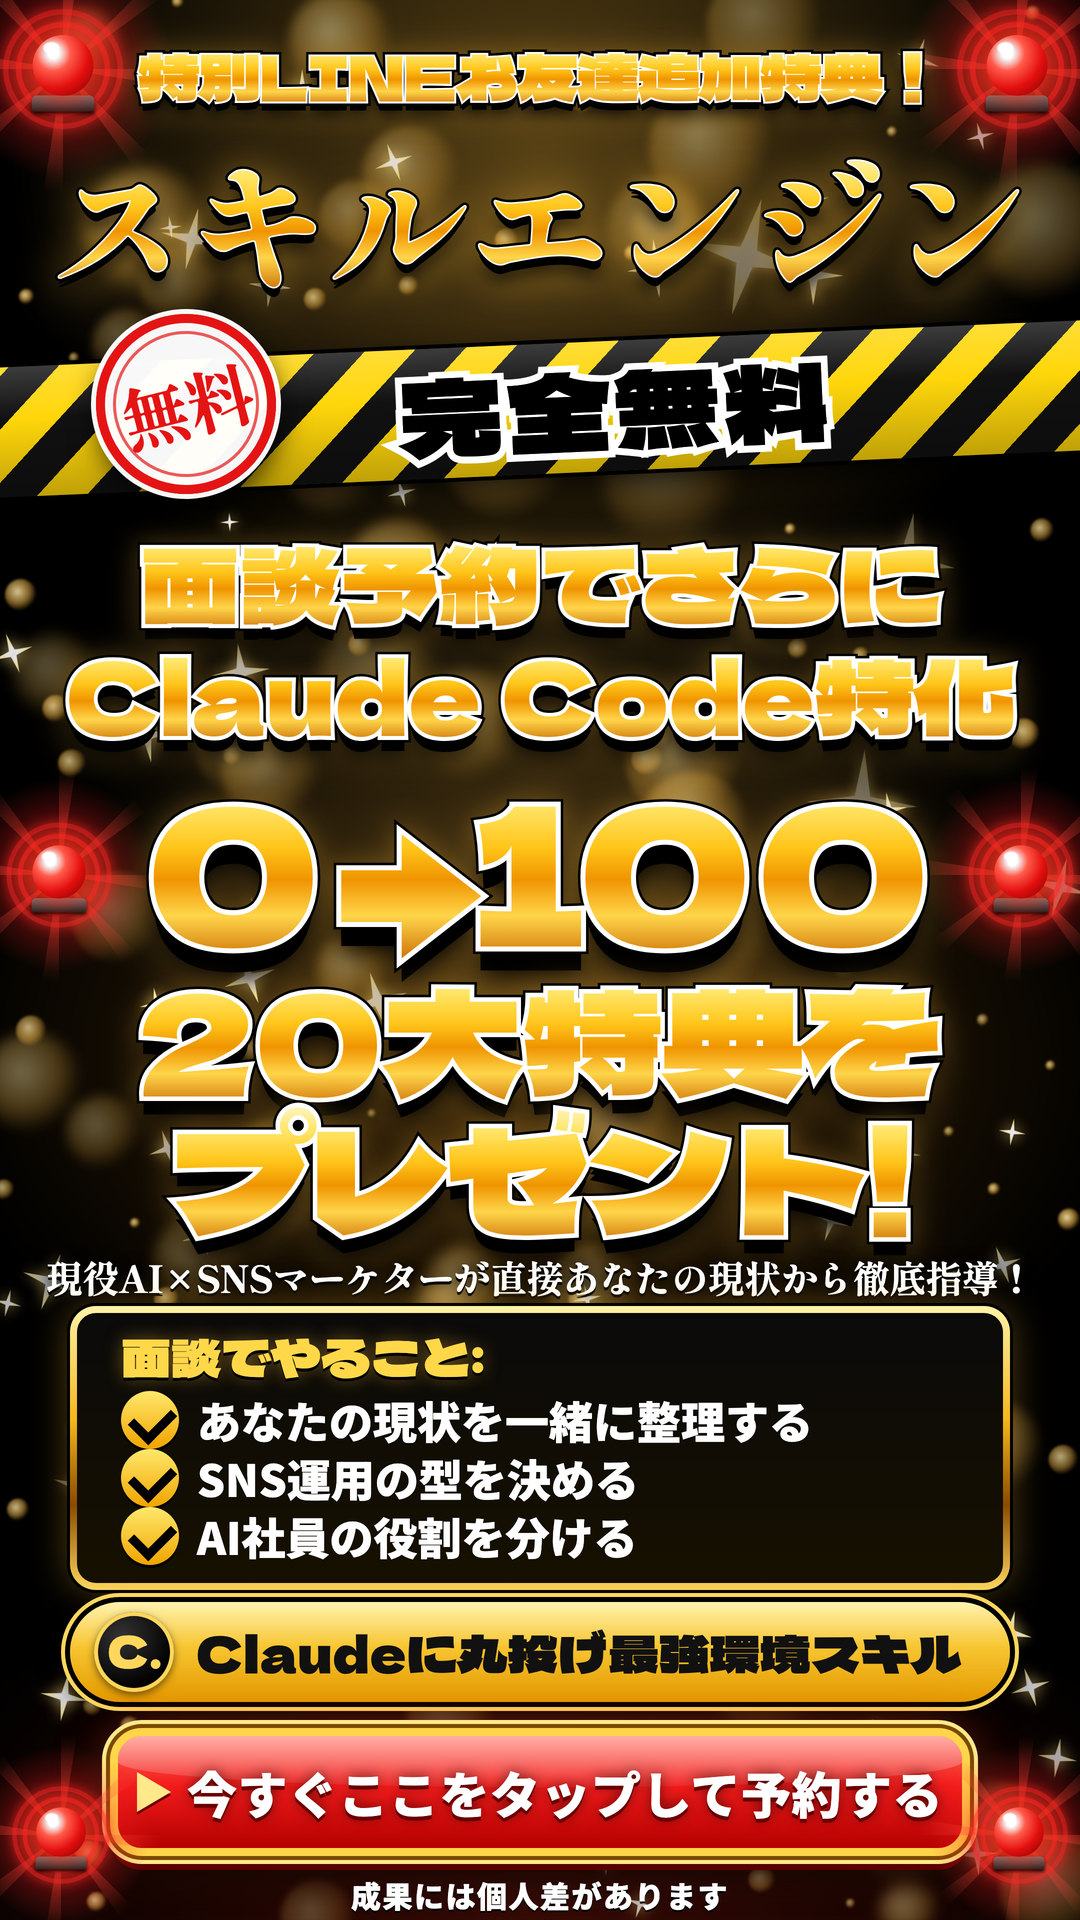
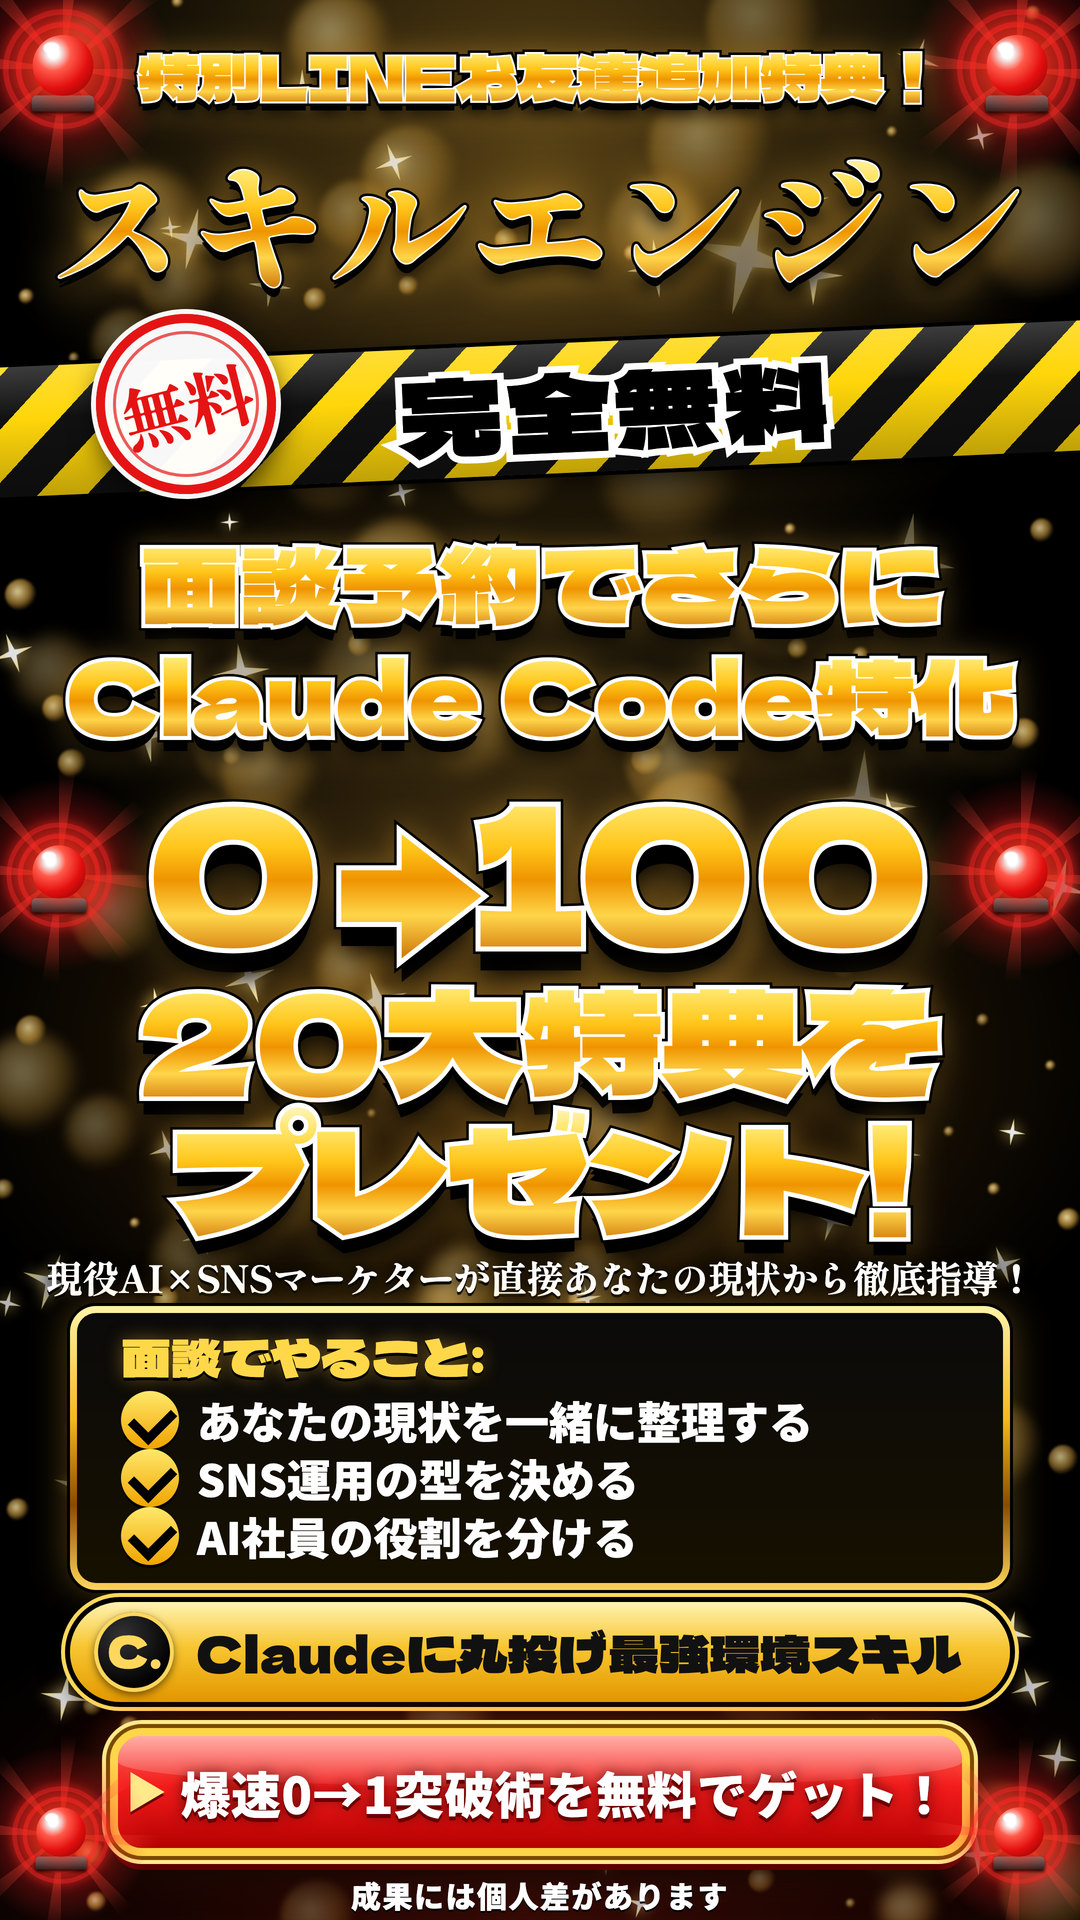
Claude Code回LP: 面談訴求のボタンを「爆速0→1突破術を無料でゲット！」に統一、タイマー下のボタンの重なりを解消
- ページ内のボタン3つ(タイマー下・特典一覧の下・追従)と、ヒーロー画像内のボタンを同じ文言に
- タイマー下のボタンにだけ下余白を付け、チェック項目との重なりを直した

Changed region(s): [[0.1222, 0.9062, 0.8861, 0.9688]]

diff --git a/claude-code/index.html b/claude-code/index.html
@@ -16,6 +16,7 @@
     .top-visuals a { display:block; }
     .top-visuals .tv-cc { border-radius: 14px; }
     .top-visuals .tv-cc:active { transform: scale(.995); }
+    .hero .cta-inline { margin: 14px 0 26px; }
     .checks .sub { display:block; margin:4px 0 0 0; font-size:13px; color:var(--muted); font-weight:700; }
   </style>
 </head>
@@ -26,7 +27,7 @@
     <span class="sp s4"></span><span class="sp s5"></span>
     <div class="brand"><span class="dot"></span> スキルエンジン</div>
     <div class="top-visuals">
-      <a href="https://liff.line.me/2009133356-u7JFBVtz?calendar_salon_id=26861&ts=1788082704"><img class="tv-cc" src="../assets/cc-hero.jpg" alt="特別LINEお友達追加特典 スキルエンジン 完全無料 面談予約でさらにClaude Code特化 0→100 20大特典をプレゼント 今すぐここをタップして予約する" /></a>
+      <a href="https://liff.line.me/2009133356-u7JFBVtz?calendar_salon_id=26861&ts=1788082704"><img class="tv-cc" src="../assets/cc-hero.jpg" alt="特別LINEお友達追加特典 スキルエンジン 完全無料 面談予約でさらにClaude Code特化 0→100 20大特典をプレゼント 爆速0→1突破術を無料でゲット！" /></a>
       <img class="tv-stats" src="../assets/top-stats.jpg" alt="総フォロワー約50万・運用代行50社・AI×SNSで1年6000万円" />
       <img class="tv-voices" src="../assets/top-voices.jpg" alt="受講から月100万円達成者多数・収益報告" />
     </div>
@@ -49,7 +50,7 @@
     </div>
     <div class="cta-inline">
       <a class="cta" href="https://liff.line.me/2009133356-u7JFBVtz?calendar_salon_id=26861&ts=1788082704">
-        <span class="txt">今すぐ個別面談を予約する<small>費用無料・3時間限定</small></span>
+        <span class="txt">爆速0→1突破術を無料でゲット！<small>面談予約で受け取り・費用無料・3時間限定</small></span>
         <span class="arrow">›</span>
       </a>
     </div>
@@ -263,7 +264,7 @@
   </section>
   <div class="cta-inline" style="margin:0 16px">
     <a class="cta" href="https://liff.line.me/2009133356-u7JFBVtz?calendar_salon_id=26861&ts=1788082704">
-      <span class="txt">今すぐ個別面談を予約する<small>費用無料・3時間限定</small></span>
+      <span class="txt">爆速0→1突破術を無料でゲット！<small>面談予約で受け取り・費用無料・3時間限定</small></span>
       <span class="arrow">›</span>
     </a>
   </div>
@@ -283,7 +284,7 @@
 </div>
 <div class="sticky">
   <a class="cta" href="https://liff.line.me/2009133356-u7JFBVtz?calendar_salon_id=26861&ts=1788082704">
-    <span class="txt">今すぐ個別面談を予約する<small>費用無料・3時間限定</small></span>
+    <span class="txt">爆速0→1突破術を無料でゲット！<small>面談予約で受け取り・費用無料・3時間限定</small></span>
     <span class="arrow">›</span>
   </a>
 </div>

diff --git a/design-src/top-images/cc-hero/index.html b/design-src/top-images/cc-hero/index.html
@@ -163,7 +163,7 @@ body{position:relative;font-family:"Noto Sans JP",sans-serif;color:#fff}
 <!-- 9 -->
 <div id="pill"><div class="cico">C.</div><div class="t">Claudeに丸投げ最強環境スキル</div></div>
 <!-- 10 -->
-<div id="btn"><div class="t">今すぐここをタップして予約する</div></div>
+<div id="btn"><div class="t">爆速0→1突破術を無料でゲット！</div></div>
 <!-- 11 -->
 <div class="siren top" style="left:-14px;top:1760px;transform:scale(.65)"><div class="rays"></div><div class="glow"></div><div class="ring r1"></div><div class="ring r2"></div><div class="base"></div><div class="ball"></div></div>
 <div class="siren top" style="right:-14px;top:1760px;transform:scale(.65)"><div class="rays"></div><div class="glow"></div><div class="ring r1"></div><div class="ring r2"></div><div class="base"></div><div class="ball"></div></div>
